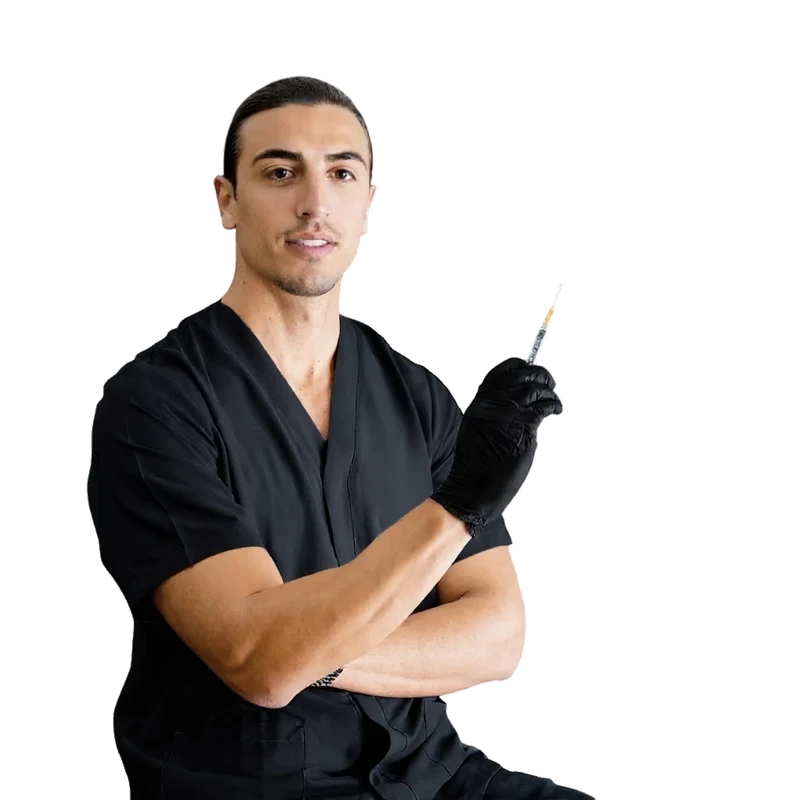
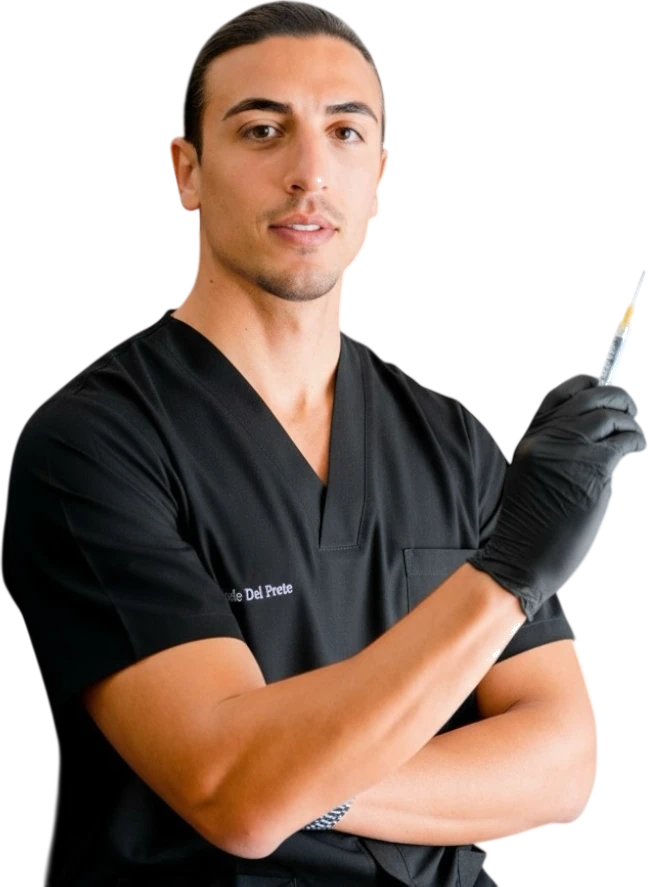
feat: improve mobile experience and update doctor images
- Update "Sobre Mi" doctor image with transparent background
- Add gradient blending for better visual integration
- Simplify Hero section for mobile (hide subtitle label, single CTA)
- Add adaptive mobile menu with dark/light themes
- Add logo icons (white/black) for mobile menu
- Adjust image spacing in "Sobre Mi" section for mobile

diff --git a/src/components/Navbar.tsx b/src/components/Navbar.tsx
@@ -14,6 +14,8 @@ const links = [
 export default function Navbar() {
   const [open, setOpen] = useState(false);
   const [scrolled, setScrolled] = useState(false);
+  // Capture the scrolled state when menu opens
+  const [menuTheme, setMenuTheme] = useState<"dark" | "light">("dark");
 
   useEffect(() => {
     const onScroll = () => setScrolled(window.scrollY > 60);
@@ -21,106 +23,147 @@ export default function Navbar() {
     return () => window.removeEventListener("scroll", onScroll);
   }, []);
 
-  return (
-    <nav
-      className={`fixed top-0 left-0 right-0 z-50 transition-all duration-500 ${
-        scrolled
-          ? "bg-stone/95 backdrop-blur-xl shadow-[0_1px_0_0_var(--color-moss)]"
-          : "bg-transparent"
-      }`}
-    >
-      <div className="max-w-[1400px] mx-auto px-8 md:px-12 flex items-center justify-between h-28 md:h-32">
-        {/* Logo */}
-        <a
-          href="#inicio"
-          className="group flex items-center"
-        >
-          <Image
-            src="/firma-logo.png"
-            alt="Dr. Raffaele Del Prete"
-            width={220}
-            height={70}
-            className={`h-20 md:h-24 w-auto transition-all duration-500 ${
-              scrolled ? "" : "brightness-0 invert"
-            }`}
-            priority
-          />
-        </a>
+  // When opening menu, capture current theme
+  const handleToggleMenu = () => {
+    if (!open) {
+      setMenuTheme(scrolled ? "light" : "dark");
+    }
+    setOpen(!open);
+  };
 
-        {/* Desktop links */}
-        <div className="hidden lg:flex items-center gap-10">
-          {links.map((link) => (
+  const handleCloseMenu = () => {
+    setOpen(false);
+  };
+
+  const isDarkMenu = menuTheme === "dark";
+
+  return (
+    <>
+      <nav
+        className={`fixed top-0 left-0 right-0 z-50 transition-all duration-500 ${
+          scrolled
+            ? "bg-stone/95 backdrop-blur-xl shadow-[0_1px_0_0_var(--color-moss)]"
+            : "bg-transparent"
+        }`}
+      >
+        <div className="max-w-[1400px] mx-auto px-8 md:px-12 flex items-center justify-between h-28 md:h-32">
+          {/* Logo */}
+          <a
+            href="#inicio"
+            className="group flex items-center"
+          >
+            <Image
+              src="/firma-logo.png"
+              alt="Dr. Raffaele Del Prete"
+              width={220}
+              height={70}
+              className={`h-20 md:h-24 w-auto transition-all duration-500 ${
+                scrolled ? "" : "brightness-0 invert"
+              }`}
+              priority
+            />
+          </a>
+
+          {/* Desktop links */}
+          <div className="hidden lg:flex items-center gap-10">
+            {links.map((link) => (
+              <a
+                key={link.href}
+                href={link.href}
+                className={`relative text-[13px] font-medium tracking-[0.15em] uppercase transition-colors duration-300 after:content-[''] after:absolute after:-bottom-1 after:left-0 after:w-0 after:h-px after:bg-gold after:transition-all after:duration-300 hover:after:w-full ${
+                  scrolled
+                    ? "text-noir/50 hover:text-gold"
+                    : "text-white/60 hover:text-white"
+                }`}
+              >
+                {link.label}
+              </a>
+            ))}
             <a
-              key={link.href}
-              href={link.href}
-              className={`relative text-[13px] font-medium tracking-[0.15em] uppercase transition-colors duration-300 after:content-[''] after:absolute after:-bottom-1 after:left-0 after:w-0 after:h-px after:bg-gold after:transition-all after:duration-300 hover:after:w-full ${
+              href="#contacto"
+              className={`ml-4 px-7 py-3 text-[12px] font-semibold tracking-[0.2em] uppercase transition-all duration-300 ${
                 scrolled
-                  ? "text-noir/50 hover:text-gold"
-                  : "text-white/60 hover:text-white"
+                  ? "bg-noir text-white hover:bg-gold"
+                  : "bg-white/10 text-white border border-white/20 hover:bg-white hover:text-noir"
               }`}
             >
-              {link.label}
+              Reservar
             </a>
-          ))}
-          <a
-            href="#contacto"
-            className={`ml-4 px-7 py-3 text-[12px] font-semibold tracking-[0.2em] uppercase transition-all duration-300 ${
-              scrolled
-                ? "bg-noir text-white hover:bg-gold"
-                : "bg-white/10 text-white border border-white/20 hover:bg-white hover:text-noir"
-            }`}
-          >
-            Reservar
-          </a>
-        </div>
-
-        {/* Mobile hamburger */}
-        <button
-          onClick={() => setOpen(!open)}
-          className="lg:hidden relative w-8 h-8 flex items-center justify-center"
-          aria-label="Menú"
-        >
-          <div className="relative w-6 h-4">
-            <span
-              className={`absolute left-0 w-full h-[1.5px] transition-all duration-300 ${
-                scrolled ? "bg-noir" : "bg-white"
-              } ${open ? "top-1/2 -translate-y-1/2 rotate-45" : "top-0"}`}
-            />
-            <span
-              className={`absolute left-0 top-1/2 -translate-y-1/2 w-full h-[1.5px] transition-all duration-300 ${
-                scrolled ? "bg-noir" : "bg-white"
-              } ${open ? "opacity-0 scale-x-0" : "opacity-100"}`}
-            />
-            <span
-              className={`absolute left-0 w-full h-[1.5px] transition-all duration-300 ${
-                scrolled ? "bg-noir" : "bg-white"
-              } ${open ? "top-1/2 -translate-y-1/2 -rotate-45" : "bottom-0"}`}
-            />
           </div>
-        </button>
-      </div>
 
-      {/* Mobile menu — full screen overlay */}
+          {/* Mobile hamburger */}
+          <button
+            onClick={handleToggleMenu}
+            className="lg:hidden relative w-8 h-8 flex items-center justify-center z-[70]"
+            aria-label="Menú"
+          >
+            <div className="relative w-6 h-4">
+              <span
+                className={`absolute left-0 w-full h-[1.5px] transition-all duration-300 ${
+                  open
+                    ? isDarkMenu ? "bg-white" : "bg-noir"
+                    : scrolled ? "bg-noir" : "bg-white"
+                } ${open ? "top-1/2 -translate-y-1/2 rotate-45" : "top-0"}`}
+              />
+              <span
+                className={`absolute left-0 top-1/2 -translate-y-1/2 w-full h-[1.5px] transition-all duration-300 ${
+                  open
+                    ? isDarkMenu ? "bg-white" : "bg-noir"
+                    : scrolled ? "bg-noir" : "bg-white"
+                } ${open ? "opacity-0 scale-x-0" : "opacity-100"}`}
+              />
+              <span
+                className={`absolute left-0 w-full h-[1.5px] transition-all duration-300 ${
+                  open
+                    ? isDarkMenu ? "bg-white" : "bg-noir"
+                    : scrolled ? "bg-noir" : "bg-white"
+                } ${open ? "top-1/2 -translate-y-1/2 -rotate-45" : "bottom-0"}`}
+              />
+            </div>
+          </button>
+        </div>
+      </nav>
+
+      {/* Mobile menu — full screen overlay (outside nav for proper stacking) */}
       <div
-        className={`lg:hidden fixed inset-0 bg-noir/98 backdrop-blur-2xl transition-all duration-500 ${
+        className={`lg:hidden fixed inset-0 z-[60] transition-opacity duration-500 ${
+          isDarkMenu ? "bg-noir" : "bg-stone"
+        } ${
           open
             ? "opacity-100 pointer-events-auto"
             : "opacity-0 pointer-events-none"
         }`}
-        style={{ top: 0 }}
       >
+        {/* Logo in mobile menu */}
+        <div
+          className={`absolute top-16 left-1/2 -translate-x-1/2 transition-opacity duration-500 ${
+            open ? "opacity-100 delay-100" : "opacity-0"
+          }`}
+        >
+          <Image
+            src={isDarkMenu ? "/logo-blanco.webp" : "/logo-negro.webp"}
+            alt="Dr. Raffaele Del Prete"
+            width={180}
+            height={390}
+            className="h-52 w-auto"
+          />
+        </div>
+
         <div className="flex flex-col items-center justify-center h-full gap-8">
           {links.map((link, i) => (
             <a
               key={link.href}
               href={link.href}
-              onClick={() => setOpen(false)}
-              className="font-display text-3xl text-white/80 hover:text-gold transition-colors duration-300"
+              onClick={handleCloseMenu}
+              className={`font-display text-3xl hover:text-gold transition-all duration-500 ${
+                isDarkMenu ? "text-white/80" : "text-noir/80"
+              } ${
+                open
+                  ? "opacity-100 translate-y-0"
+                  : "opacity-0 translate-y-5"
+              }`}
               style={{
                 transitionDelay: open ? `${i * 80}ms` : "0ms",
-                opacity: open ? 1 : 0,
-                transform: open ? "translateY(0)" : "translateY(20px)",
-                transition: `all 0.5s cubic-bezier(0.22, 1, 0.36, 1) ${i * 80}ms`,
               }}
             >
               {link.label}
@@ -128,13 +171,14 @@ export default function Navbar() {
           ))}
           <a
             href="#contacto"
-            onClick={() => setOpen(false)}
-            className="mt-4 px-10 py-4 bg-gold text-white text-[13px] font-semibold tracking-[0.2em] uppercase hover:bg-gold-dark transition-colors"
+            onClick={handleCloseMenu}
+            className={`mt-4 px-10 py-4 bg-gold text-white text-[13px] font-semibold tracking-[0.2em] uppercase hover:bg-gold-dark transition-all duration-500 ${
+              open
+                ? "opacity-100 translate-y-0"
+                : "opacity-0 translate-y-5"
+            }`}
             style={{
               transitionDelay: open ? `${links.length * 80}ms` : "0ms",
-              opacity: open ? 1 : 0,
-              transform: open ? "translateY(0)" : "translateY(20px)",
-              transition: `all 0.5s cubic-bezier(0.22, 1, 0.36, 1) ${links.length * 80}ms`,
             }}
           >
             Reservar Cita
@@ -143,15 +187,20 @@ export default function Navbar() {
 
         {/* Close button */}
         <button
-          onClick={() => setOpen(false)}
+          onClick={handleCloseMenu}
           className="absolute top-7 right-8 w-8 h-8 flex items-center justify-center"
           aria-label="Cerrar"
         >
-          <svg className="w-6 h-6 text-white/60" fill="none" stroke="currentColor" viewBox="0 0 24 24">
+          <svg
+            className={`w-6 h-6 ${isDarkMenu ? "text-white/60" : "text-noir/60"}`}
+            fill="none"
+            stroke="currentColor"
+            viewBox="0 0 24 24"
+          >
             <path strokeLinecap="round" strokeLinejoin="round" strokeWidth={1.5} d="M6 18L18 6M6 6l12 12" />
           </svg>
         </button>
       </div>
-    </nav>
+    </>
   );
 }

diff --git a/src/components/Hero.tsx b/src/components/Hero.tsx
@@ -57,10 +57,10 @@ export default function Hero() {
         <div className="grid grid-cols-1 lg:grid-cols-2 gap-8 lg:gap-4 items-center lg:min-h-screen py-12 lg:py-24">
 
           {/* Left: Text content */}
-          <div className="pb-12 lg:pb-0">
-            {/* Decorative accent */}
+          <div className="pb-8 lg:pb-0">
+            {/* Decorative accent - hidden on mobile */}
             <div
-              className="flex items-center gap-4 mb-6 lg:mb-8"
+              className="hidden lg:flex items-center gap-4 mb-8"
               style={{
                 opacity: loaded ? 1 : 0,
                 transform: loaded ? "translateY(0)" : "translateY(20px)",
@@ -73,9 +73,9 @@ export default function Hero() {
               </span>
             </div>
 
-            {/* Main heading */}
+            {/* Main heading - smaller on mobile */}
             <h1
-              className="font-display text-[clamp(2.5rem,6vw,5rem)] leading-[1] text-white mb-5 lg:mb-6 tracking-[-0.02em]"
+              className="font-display text-[2rem] lg:text-[clamp(2.5rem,6vw,5rem)] leading-[1.1] text-white mb-4 lg:mb-6 tracking-[-0.02em]"
               style={{
                 opacity: loaded ? 1 : 0,
                 transform: loaded ? "translateY(0)" : "translateY(40px)",
@@ -88,7 +88,7 @@ export default function Hero() {
 
             {/* Subtitle */}
             <p
-              className="text-stone/80 lg:text-moss text-base lg:text-xl leading-relaxed max-w-md mb-8 lg:mb-10 font-light"
+              className="text-stone/70 lg:text-moss text-sm lg:text-xl leading-relaxed max-w-md mb-6 lg:mb-10 font-light"
               style={{
                 opacity: loaded ? 1 : 0,
                 transform: loaded ? "translateY(0)" : "translateY(30px)",
@@ -99,9 +99,8 @@ export default function Hero() {
               artístico personalizado.
             </p>
 
-            {/* CTA buttons */}
+            {/* CTA button */}
             <div
-              className="flex flex-col sm:flex-row gap-4"
               style={{
                 opacity: loaded ? 1 : 0,
                 transform: loaded ? "translateY(0)" : "translateY(30px)",
@@ -110,18 +109,9 @@ export default function Hero() {
             >
               <a
                 href="#contacto"
-                className="group relative inline-flex items-center justify-center px-10 py-4 bg-gold text-white text-[13px] font-semibold tracking-[0.2em] uppercase overflow-hidden transition-all duration-500 hover:bg-gold-dark"
+                className="group relative inline-flex items-center justify-center px-8 py-3 lg:px-10 lg:py-4 bg-gold text-white text-[12px] lg:text-[13px] font-semibold tracking-[0.2em] uppercase overflow-hidden transition-all duration-500 hover:bg-gold-dark"
               >
                 <span className="relative z-10">Reservar Consulta</span>
-              </a>
-              <a
-                href="#tratamientos"
-                className="inline-flex items-center justify-center px-10 py-4 text-stone/70 text-[13px] font-medium tracking-[0.2em] uppercase border border-stone/20 hover:border-gold/50 hover:text-gold transition-all duration-500"
-              >
-                Explorar
-                <svg className="ml-3 w-4 h-4" fill="none" stroke="currentColor" viewBox="0 0 24 24">
-                  <path strokeLinecap="round" strokeLinejoin="round" strokeWidth={1.5} d="M17 8l4 4m0 0l-4 4m4-4H3" />
-                </svg>
               </a>
             </div>
           </div>

diff --git a/src/components/SobreMi.tsx b/src/components/SobreMi.tsx
@@ -27,12 +27,15 @@ export default function SobreMi() {
           <div className="lg:col-span-5 reveal-left">
             <div className="relative">
               {/* Main image container */}
-              <div className="aspect-[3/4] bg-gradient-to-br from-stone via-stone to-moss/30 overflow-hidden relative">
+              <div className="aspect-[4/5] lg:aspect-[3/4] bg-gradient-to-b from-stone via-stone to-moss overflow-hidden relative pt-12 lg:pt-0">
+                {/* Side gradients for smooth edge blending */}
+                <div className="absolute inset-0 pointer-events-none bg-gradient-to-l from-moss/40 via-transparent to-transparent" />
+                <div className="absolute inset-0 pointer-events-none bg-gradient-to-r from-moss/20 via-transparent to-transparent" />
                 <Image
                   src="/sobre-mi-doctor.webp"
                   alt="Dr. Raffaele Del Prete"
                   fill
-                  className="object-contain object-bottom"
+                  className="object-contain object-bottom relative z-10 !top-12 lg:!top-0"
                   sizes="(max-width: 1024px) 100vw, 40vw"
                 />
               </div>
@@ -40,8 +43,8 @@ export default function SobreMi() {
               {/* Offset decorative frame */}
               <div className="absolute -bottom-6 -right-6 w-full h-full border border-gold/20 -z-10" />
 
-              {/* Floating stat card */}
-              <div className="absolute -right-4 md:-right-8 bottom-12 bg-noir text-white p-6 md:p-8 shadow-2xl">
+              {/* Floating stat card - hidden on mobile (info shown in stats below) */}
+              <div className="hidden md:block absolute -right-8 bottom-12 bg-noir text-white p-8 shadow-2xl">
                 <span className="font-display text-4xl md:text-5xl text-gold block leading-none">
                   15+
                 </span>
